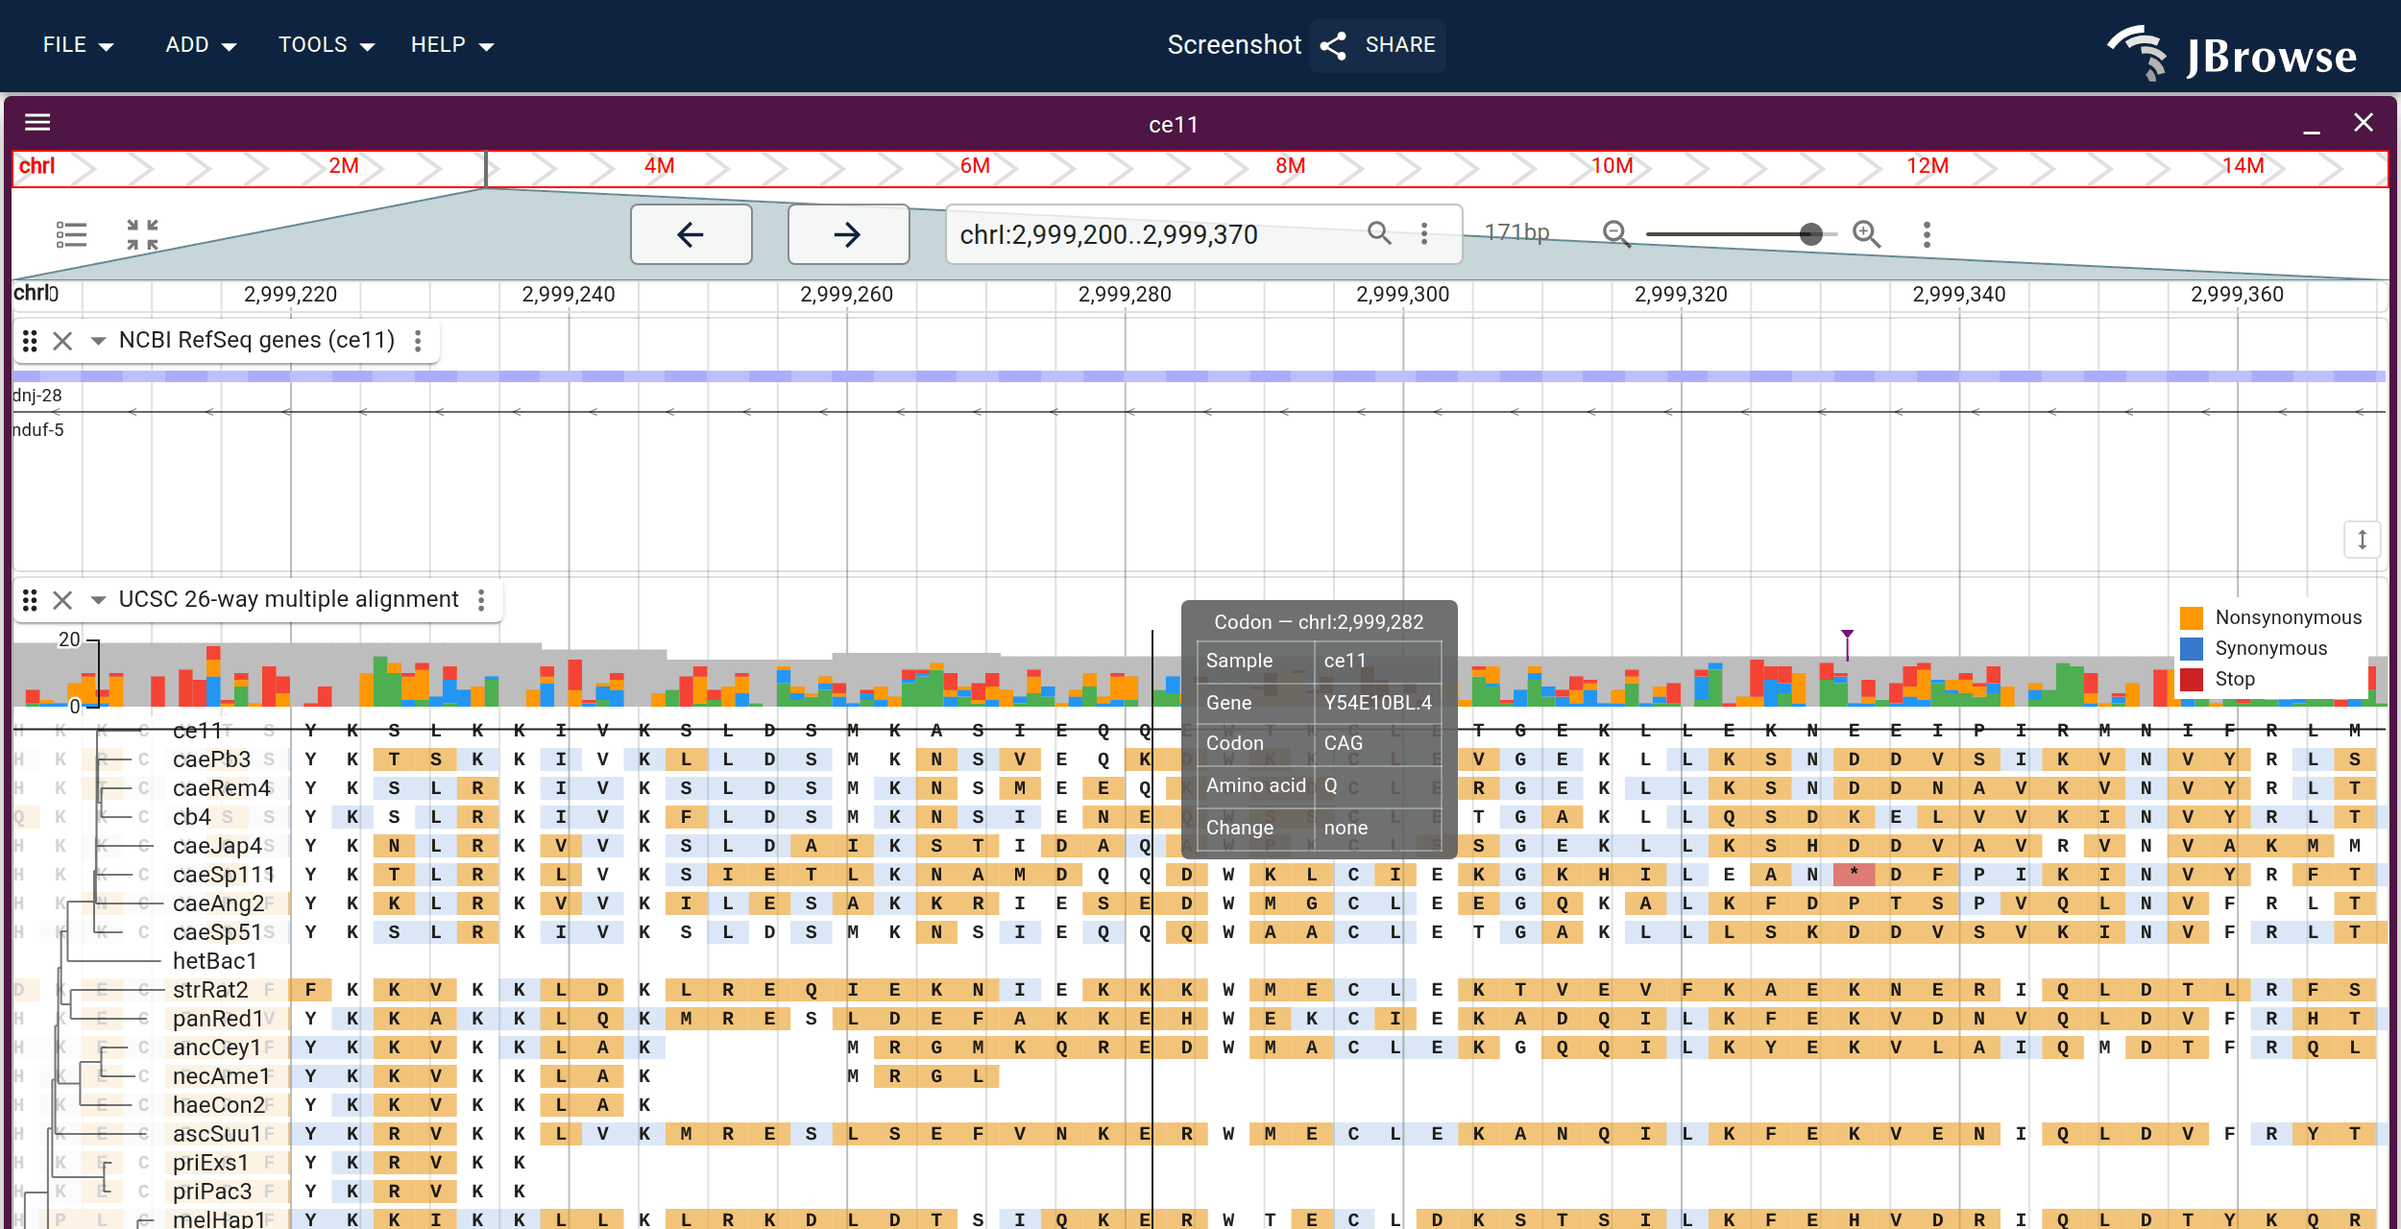
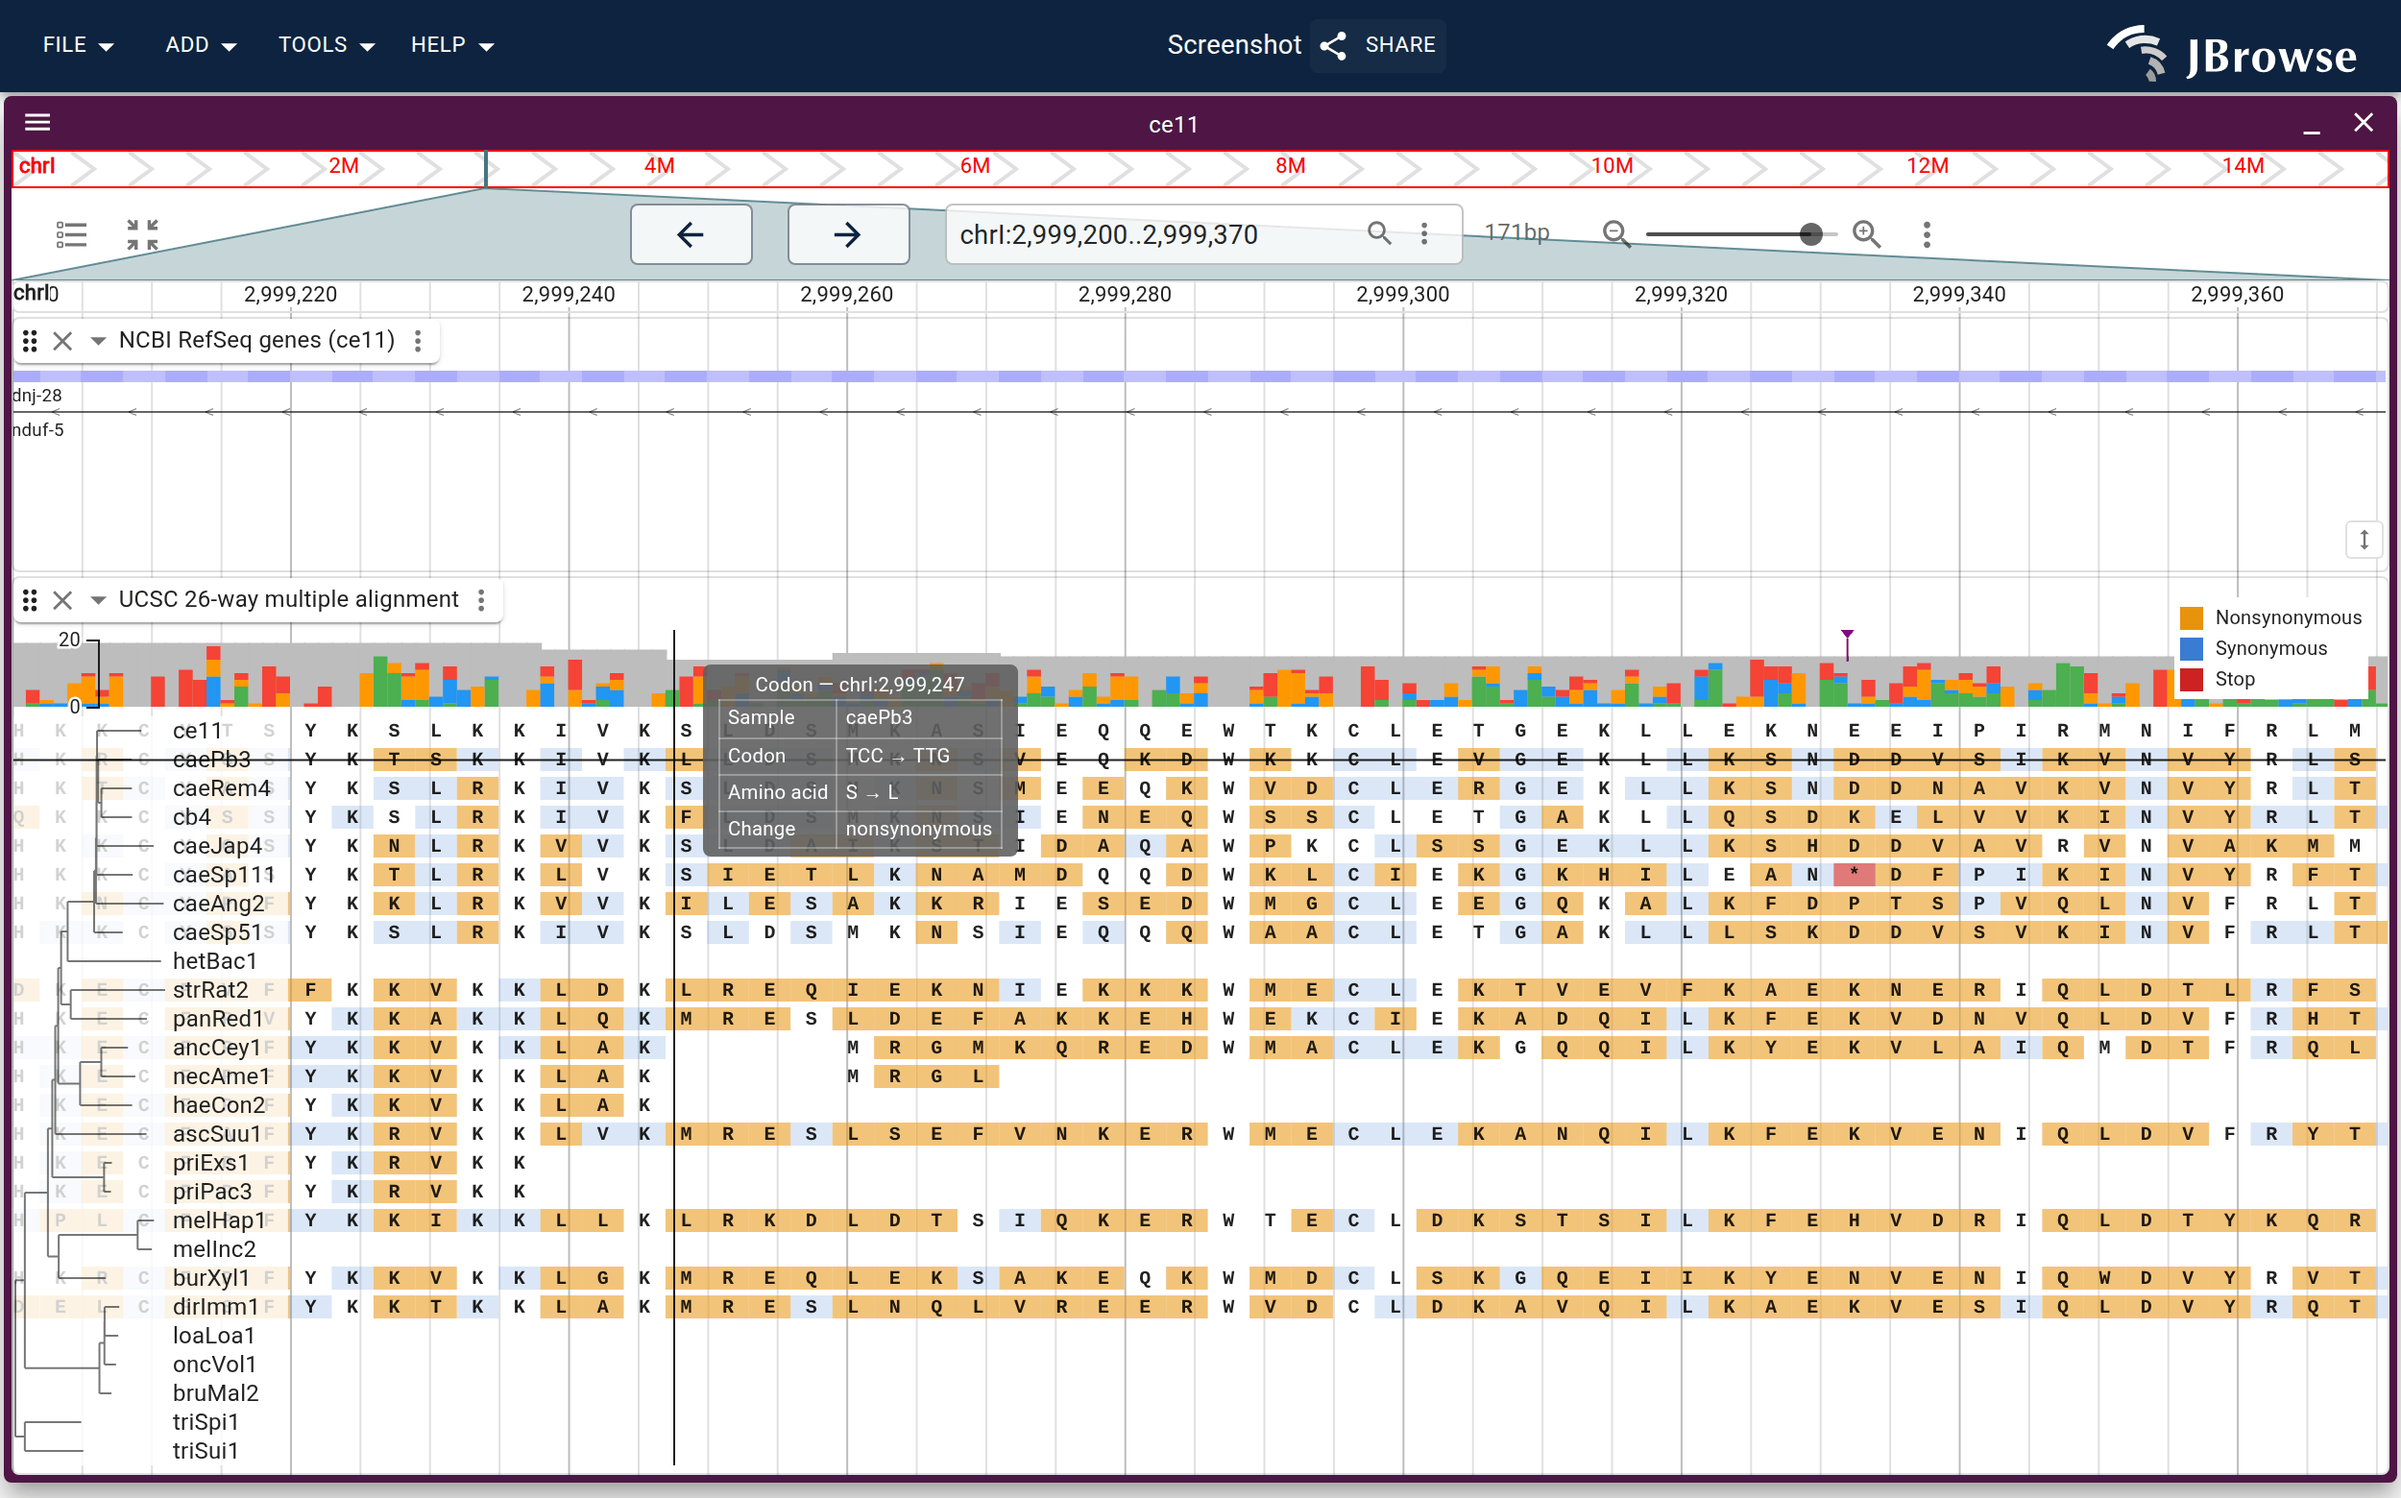
fix(website): point the codon-tooltip figure at a codon that changed
The hover landed on the ce11 row, which is the reference the tooltip compares
against, so it necessarily read "Change: none" - the figure demonstrated the
readout on the one case where there is nothing to read. Its caption meanwhile
described a GAA -> GCC, E -> A nonsynonymous change that has not been in the
frame for as long as git remembers. Now on caePb3's S -> L against that
reference, which is what the figure is for, and the caption says what the
picture is rather than reciting the tooltip's rows.

Also given room for the whole display: the 470px track ran 132px past a 640px
viewport and the last species row was cut in half, which reads as a rendering
fault rather than as a list that continues. The regenerated PNG also picks up
the MAF rendering changes sitting uncommitted in the worktree - checked by eye
against the old one, a small row shift and a lighter tooltip border.

Claude-Session: https://claude.ai/code/session_01DjGqTMUV5KqKtdBbyrb7Ss

diff --git a/website/scripts/specs/maf.ts b/website/scripts/specs/maf.ts
@@ -194,10 +194,17 @@ export const mafSpecs: ScreenshotSpec[] = [
     readyTimeout: 90000,
     // wider capture so more of the codon alignment is visible (reviewer)
     viewportWidth: 1250,
-    viewportHeight: 640,
+    // tall enough for the whole 470px display: at 640 the frame cut the last
+    // species row in half, which reads as a rendering fault rather than as a
+    // list that continues
+    viewportHeight: 780,
     settleMs: 12000,
     actions: [
-      { type: 'hover', from: { x: 600, y: 380 } },
+      // an ORANGE cell in a non-reference row. The hover used to land on the
+      // ce11 row, which is the reference: its tooltip necessarily reads
+      // "Change: none", so the figure demonstrated the readout on the one case
+      // where there is nothing to read. This is caePb3's S -> L against it.
+      { type: 'hover', from: { x: 351, y: 396 } },
       { type: 'delay', ms: 2000 },
     ],
   },

diff --git a/website/docs/user_guides/maf_track.md b/website/docs/user_guides/maf_track.md
@@ -112,7 +112,7 @@ loaded (in codon view, or with the strip on), the hover also shows the gene
 name; in codon view it shows the species' codon and amino acid next to the
 reference's and labels the change synonymous or nonsynonymous.
 
-<Figure src="/img/maf_codon_tooltip.png" caption="The codon-view hover tooltip on the ce11 26-way alignment: over a codon cell it shows the species' codon and amino acid next to the reference's (here GAA → GCC, E → A) and labels the change nonsynonymous, alongside the alignment location and the CDS frame/gene the reading frame came from."/>
+<Figure src="/img/maf_codon_tooltip.png" caption="The codon-view hover tooltip on the ce11 26-way alignment. Hovering a codon cell reads out the substitution against the reference, so a nonsynonymous change is named rather than inferred from the cell color."/>
 
 ## Row layout and the species tree
 
